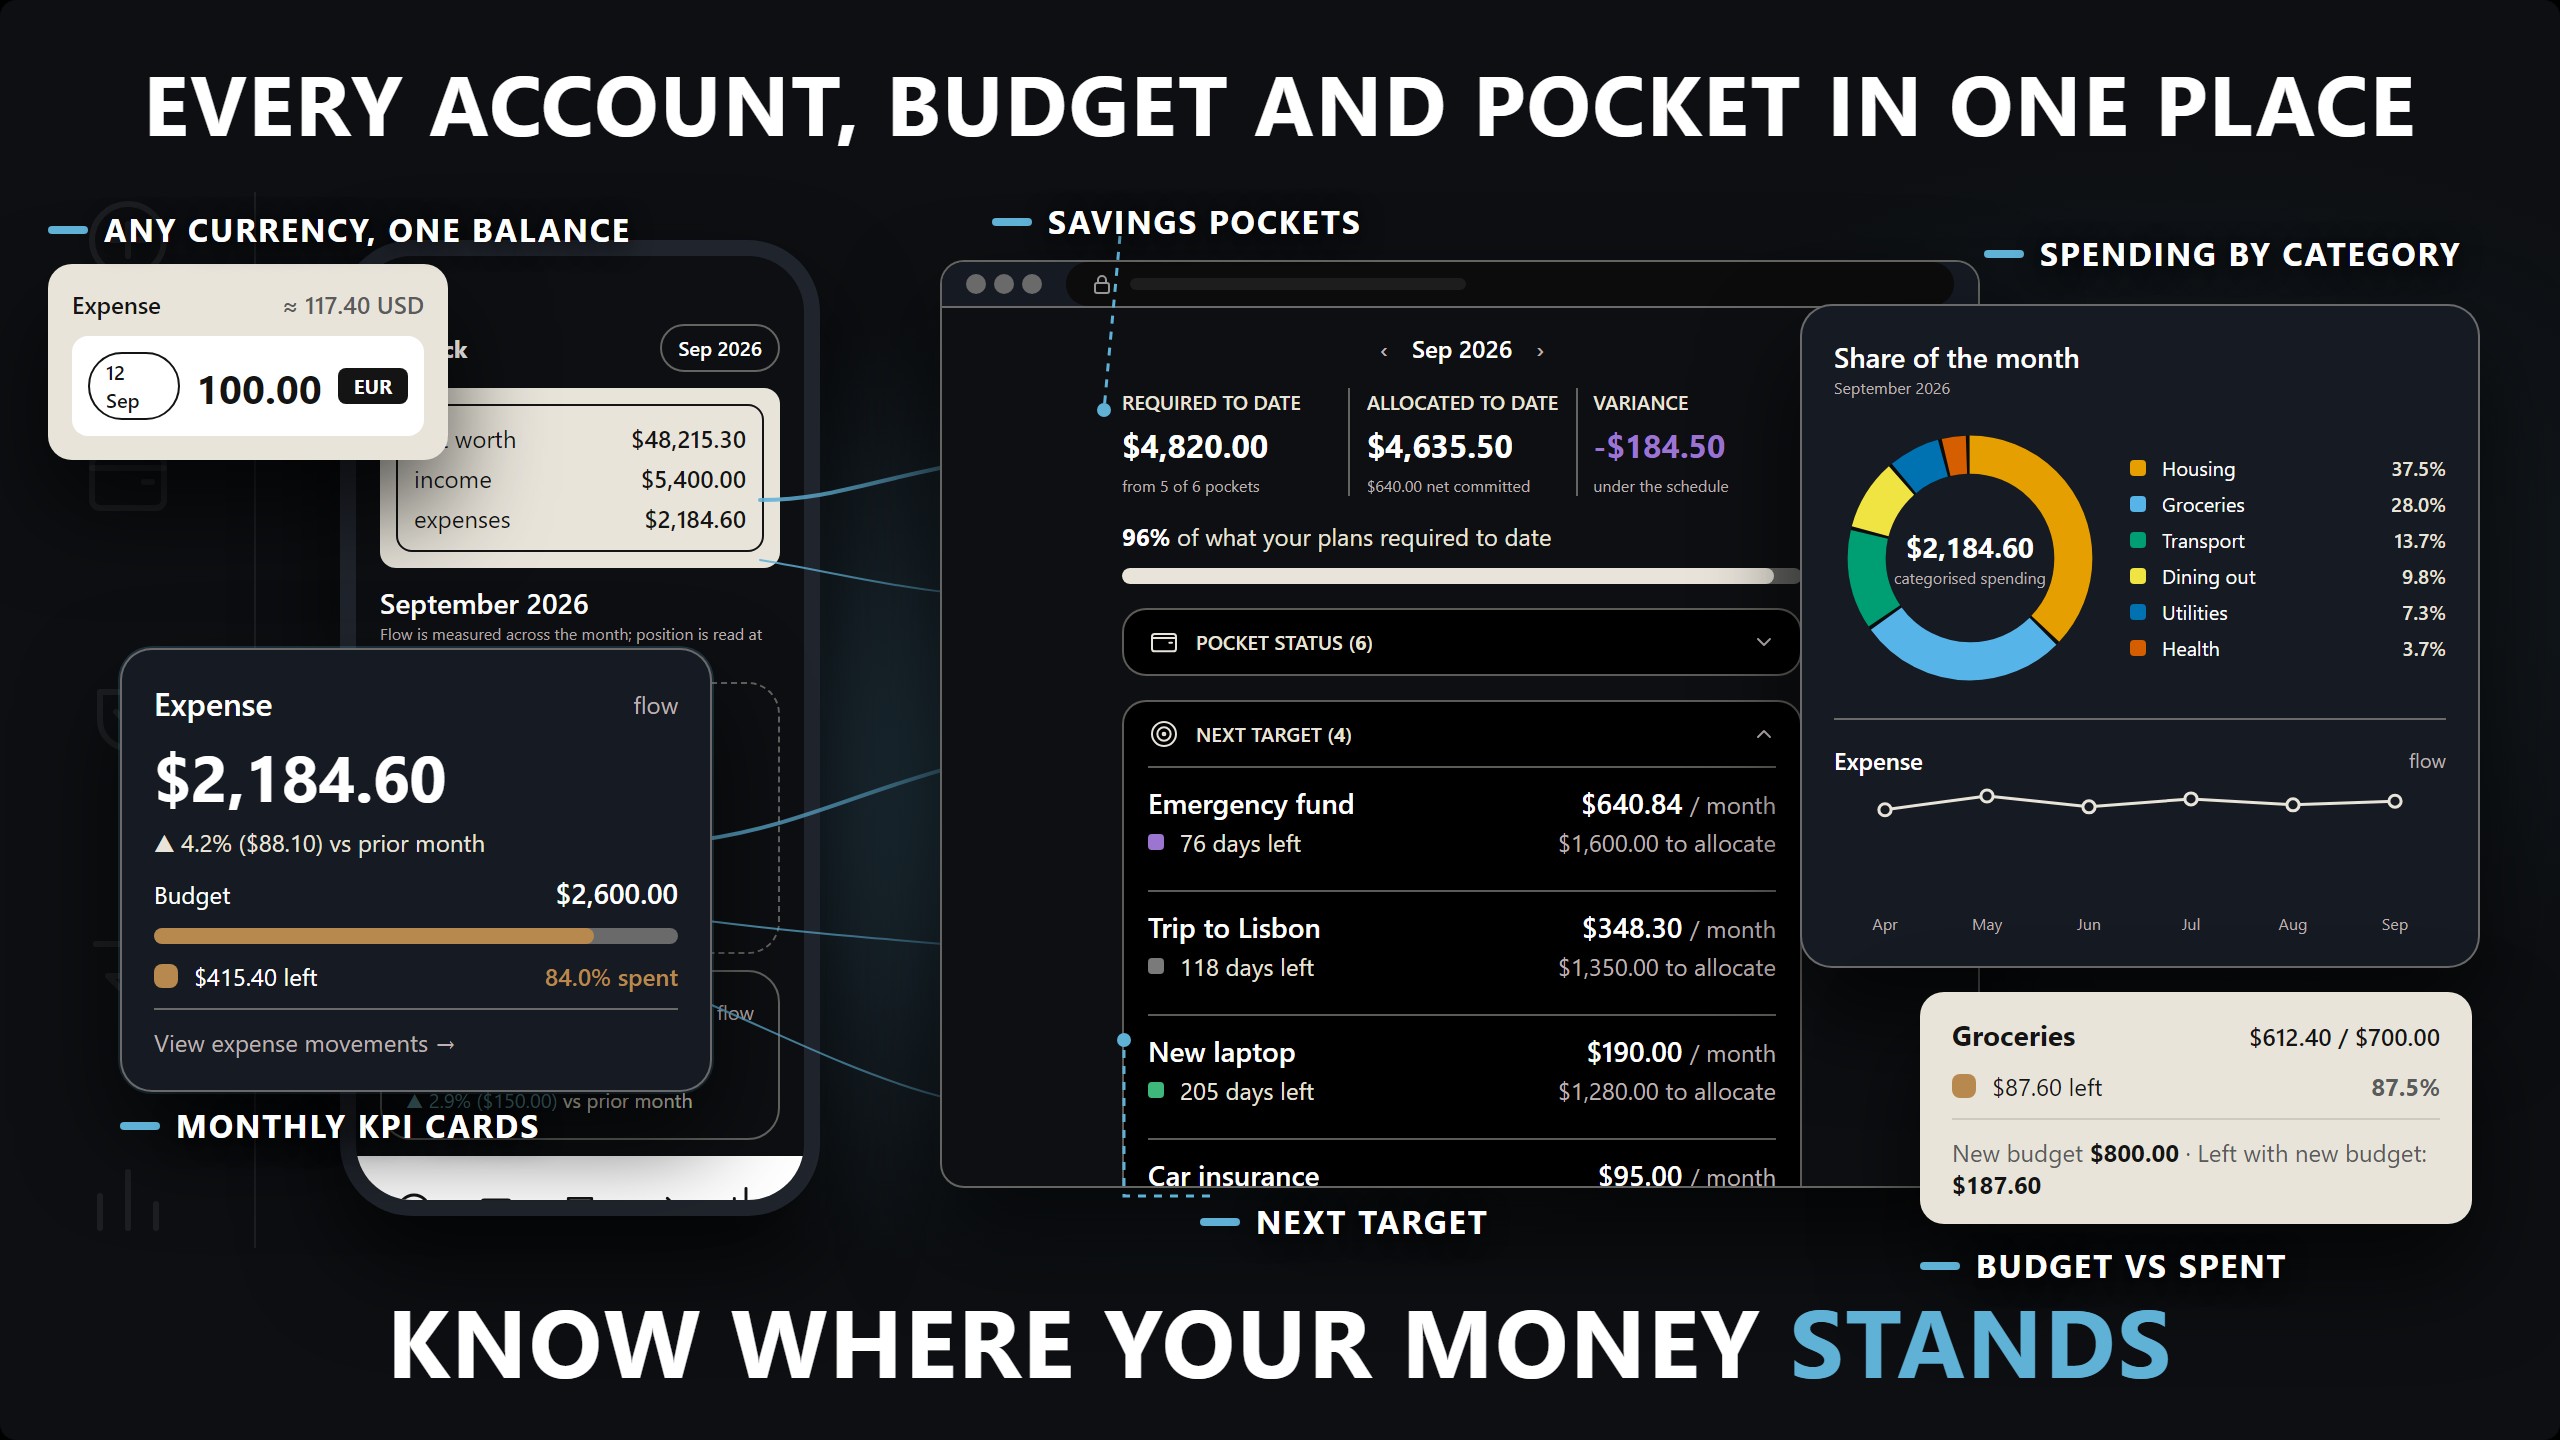
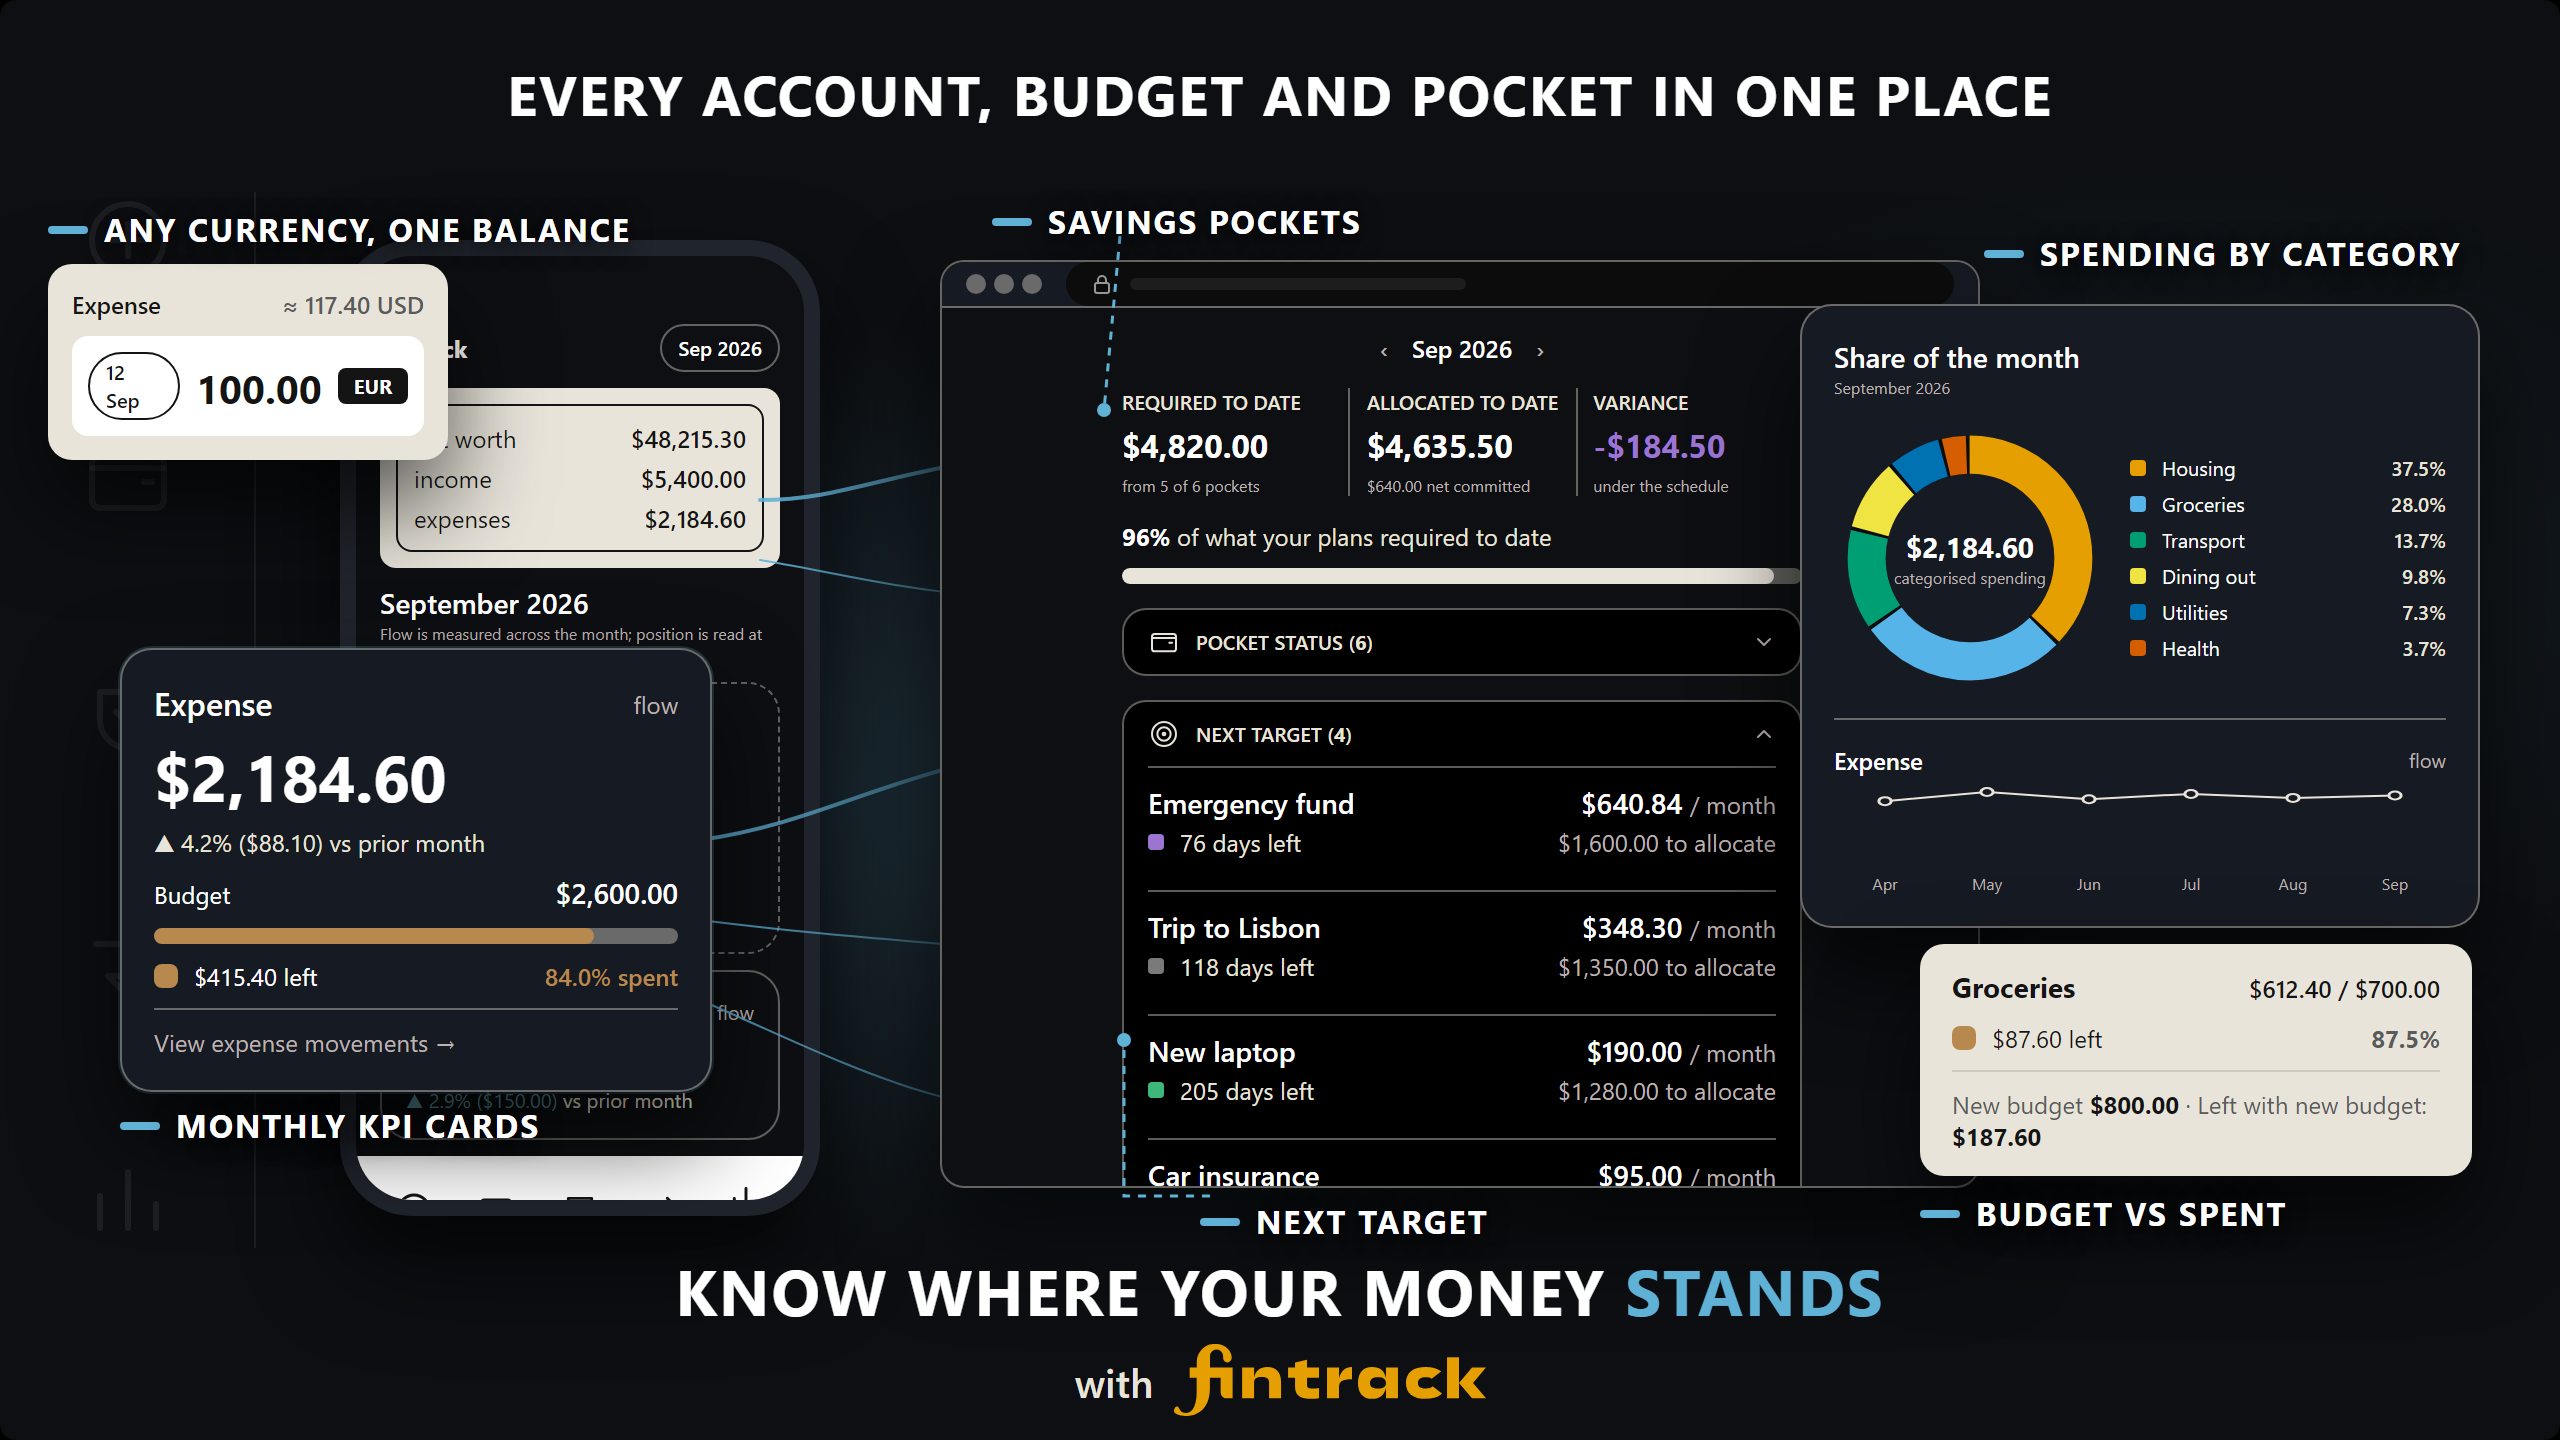
docs(readme): sign the showcase images with fintrack
Both showcase images are re-rendered: the slogans drop one size, the
top-left logo is gone, and a "with fintrack" sign-off sits under the
tagline, the logo drawn in the ochre of the charts' first category.
The donut image is laid out to open the demo video.

The demo paragraph names the app: "fintrack's core loop".

Changed region(s): [[0.1562, 0.625, 0.9688, 0.9688], [0.0312, 0.0312, 0.9375, 0.0938], [0.75, 0.5312, 0.9375, 0.5625]]

diff --git a/README.md b/README.md
@@ -12,7 +12,7 @@ The image is a composition built from the app's own screens.
 
 ## Demo
 
-A 30-second walkthrough of the app's core loop: signing up, creating an
+A 30-second walkthrough of fintrack's core loop: signing up, creating an
 account, recording an expense in a foreign currency at its historical rate,
 committing money to a savings pocket, tracking a debt, and exporting a PDF report —
 every figure shown is computed live by the app, not staged.
